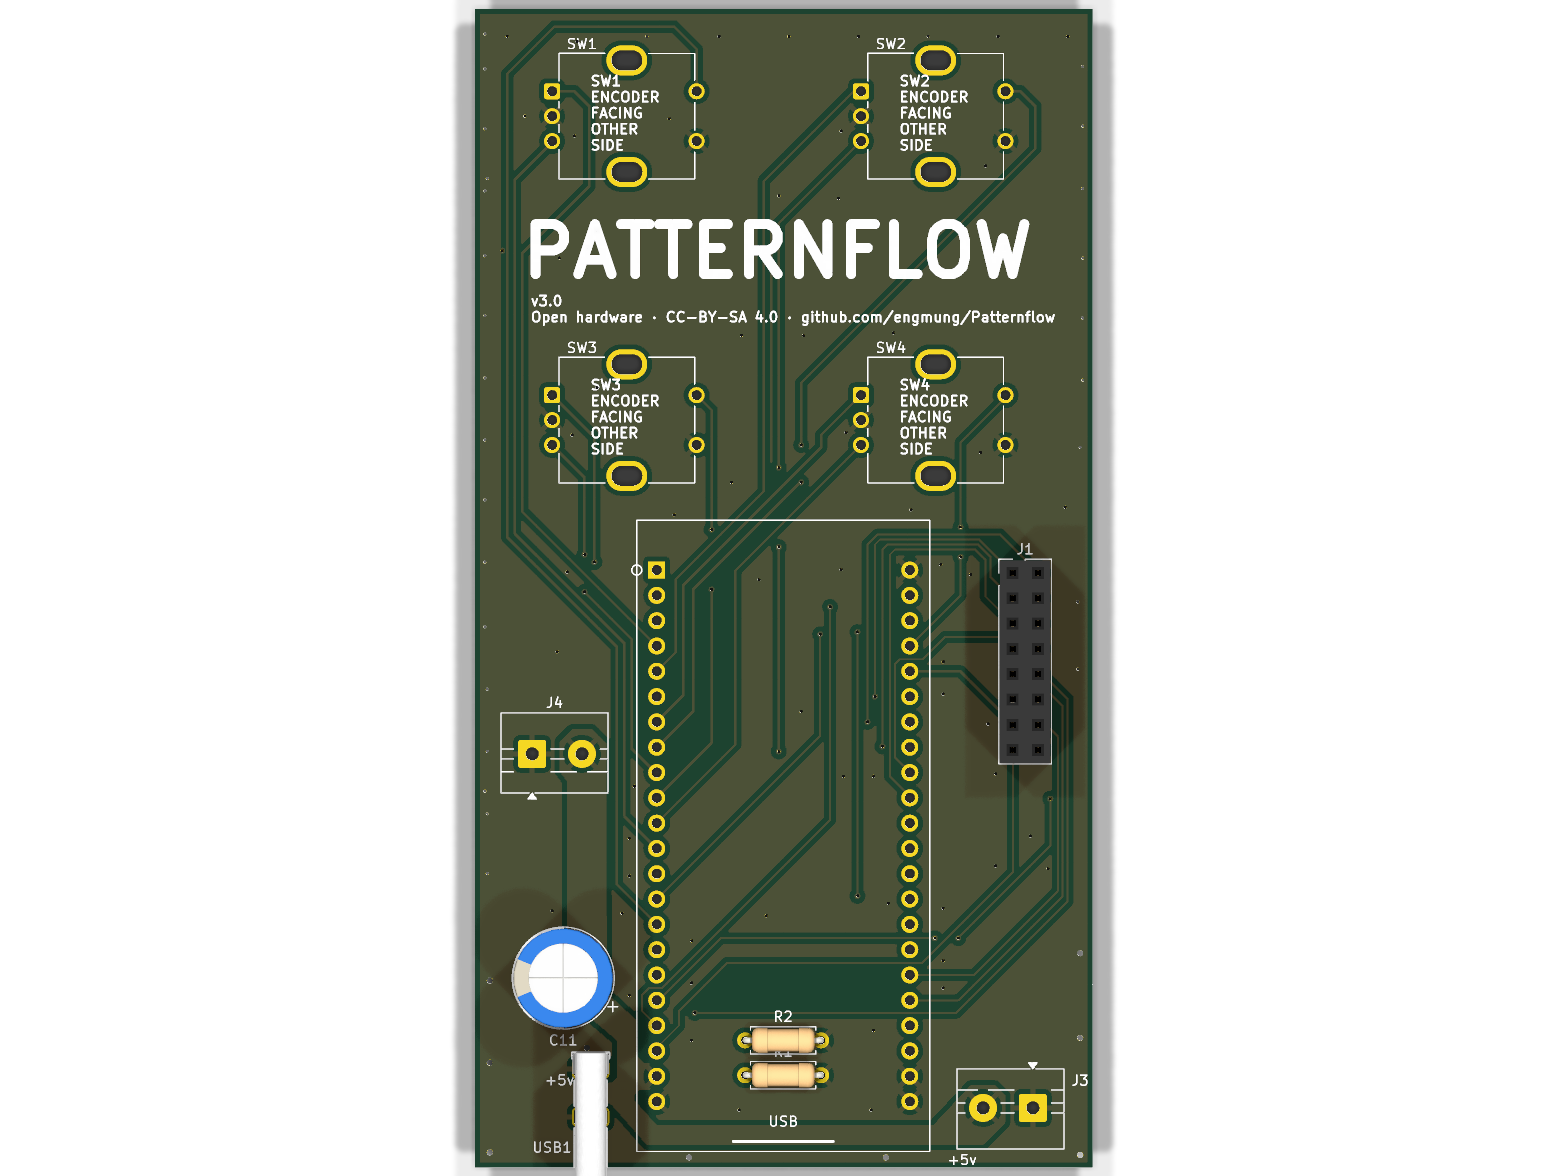
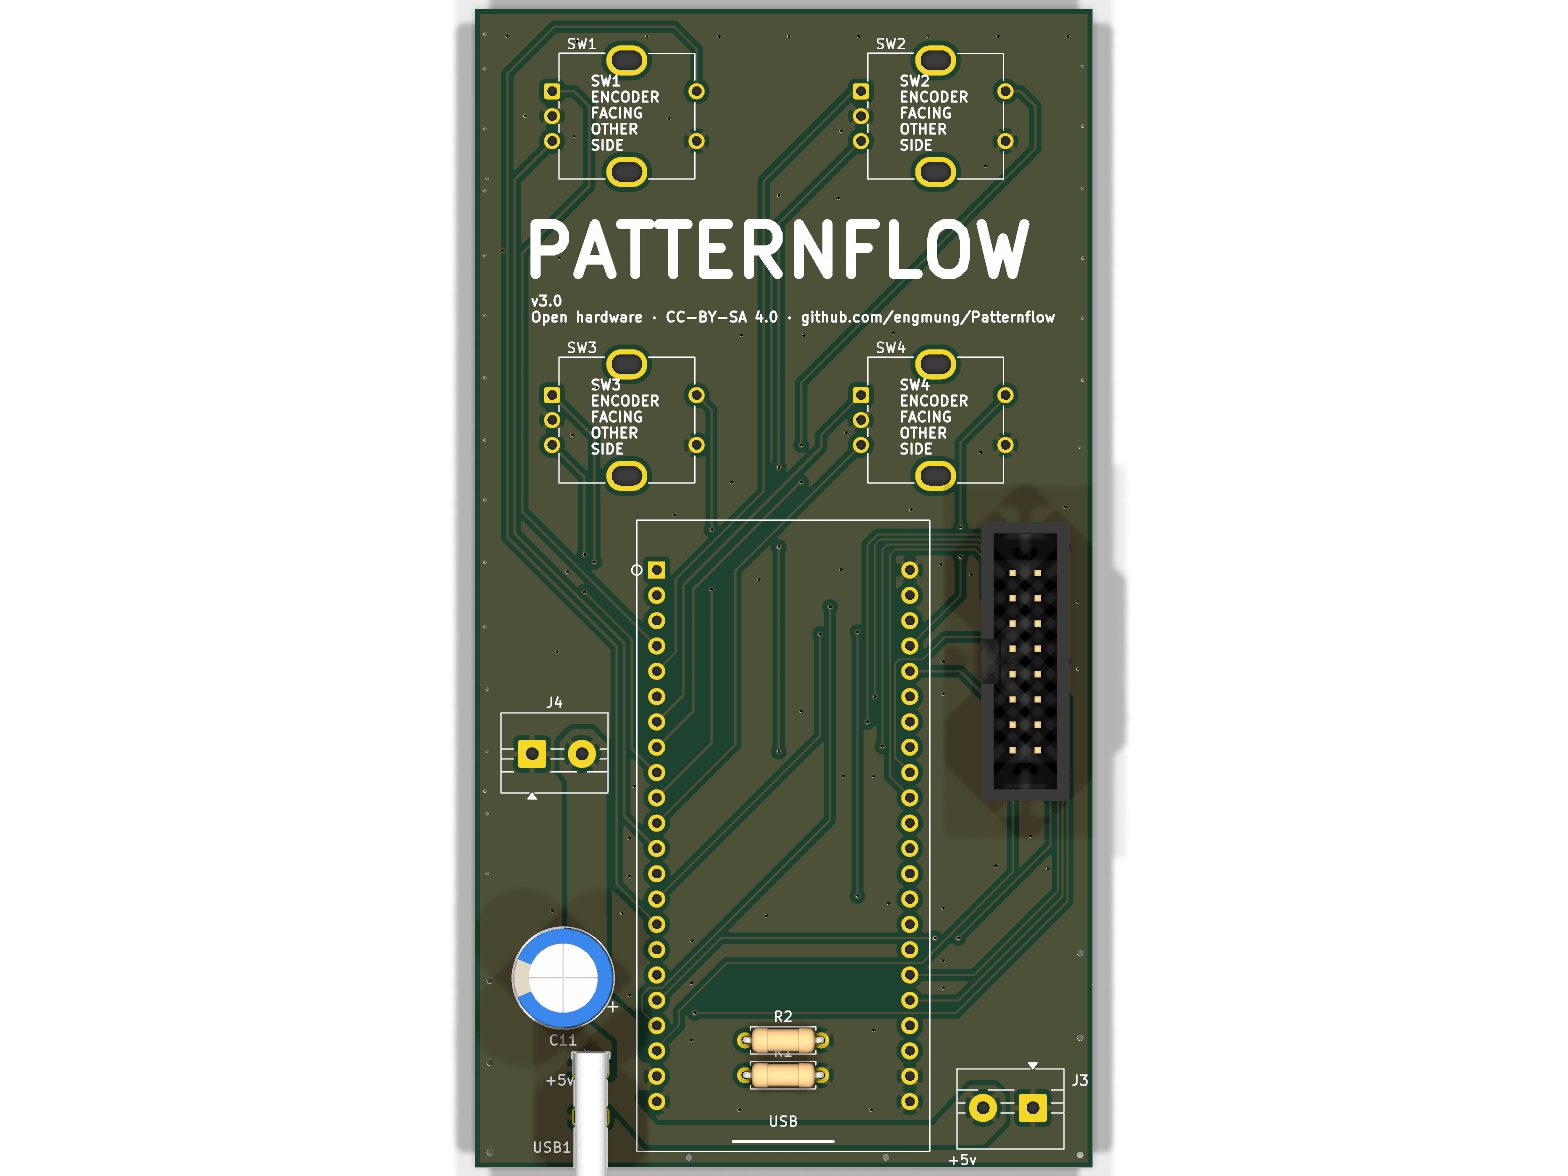
fix(pcb): J1 3D model is a shrouded IDC box header after all
The board part was right all along (male box header, per the BOM's
Würth 61201621621) — only the 3D model lacked the shroud walls, which
made renders look unlike the real part. Swap the bare PinHeader model
for the KiCad IDC-Header_2x08 model and re-render. Visual only.

Changed region(s): [[0.5938, 0.398, 0.7188, 0.7041]]

diff --git a/hardware/pcb/README.md b/hardware/pcb/README.md
@@ -12,7 +12,7 @@ Custom board for the Patternflow LED synthesizer — ESP32-S3 DevKit on sockets,
 
 - **U1** — ESP32-S3 DevKit (N16R8) on 2× 1×22 female sockets; the DevKit itself is never soldered
 - **SW1–SW4** — EC11 rotary encoders, inserted from the **back** (silkscreen reminds you: *encoder facing other side*)
-- **J1** — 2×8 socket to the LED matrix (HUB75)
+- **J1** — 2×8 box header; the panel's HUB75 ribbon plugs in here
 - **Power, two options on one board**: **USB1** (Type-C, needs the R1/R2 5.1k CC pull-downs; the THT signal pins are hard to solder — see [#114](https://github.com/engmung/Patternflow/issues/114)) or **J4** (2-pin screw terminal on the back — the beginner bypass: strip a USB cable, screw the wires in)
 - **J3** — +5V out to the LED matrix · **C11** — 1000µF bulk cap for the boot transient
 
